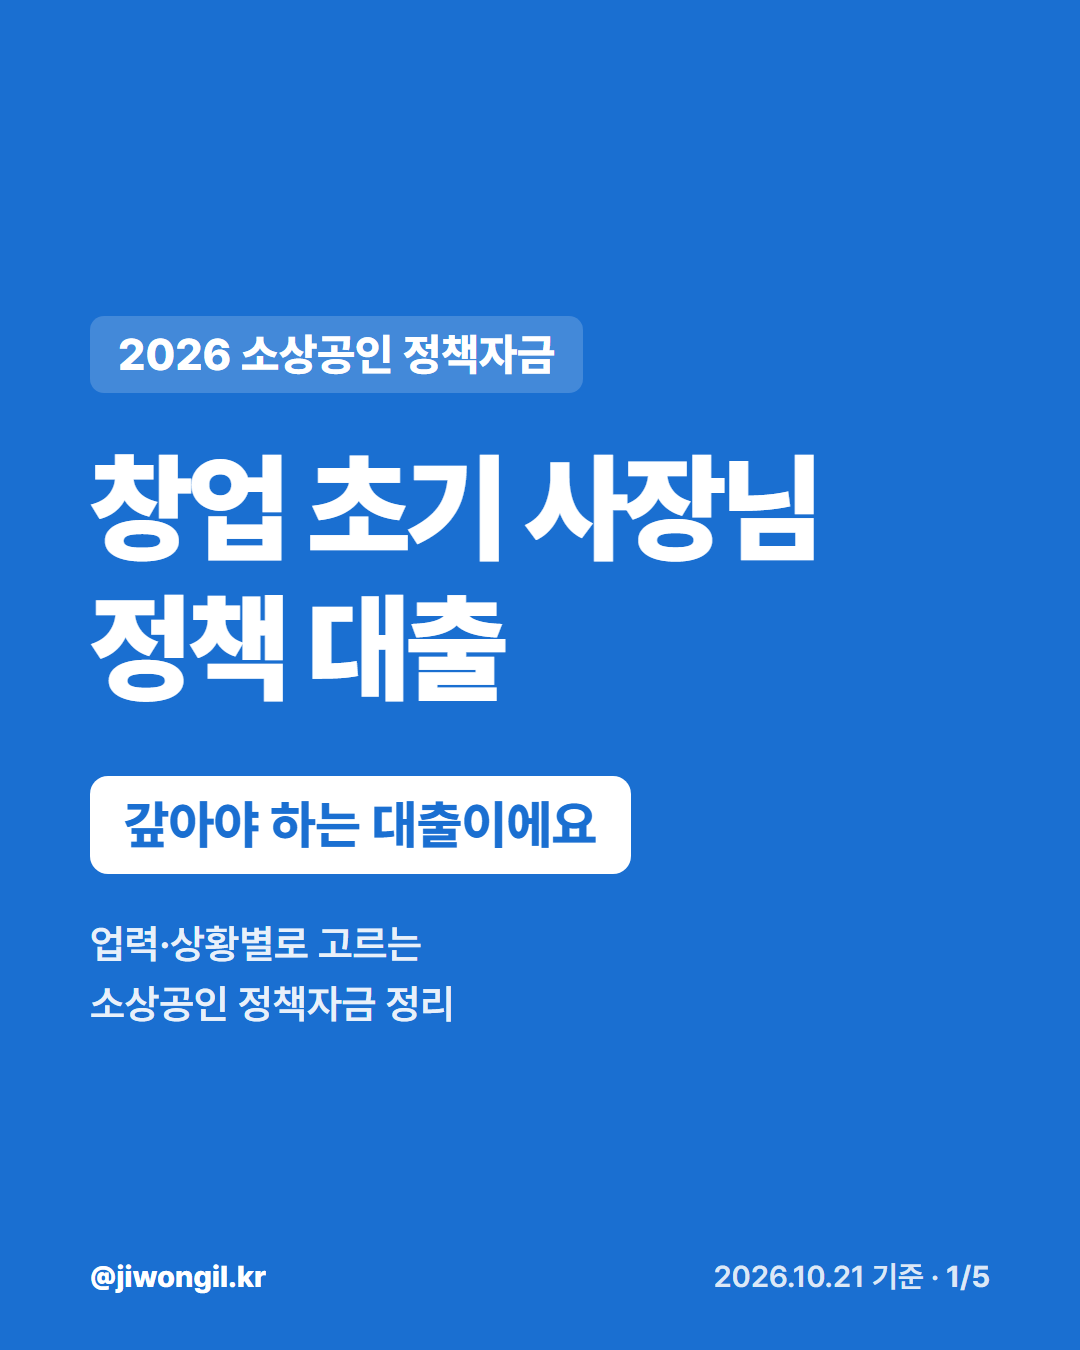
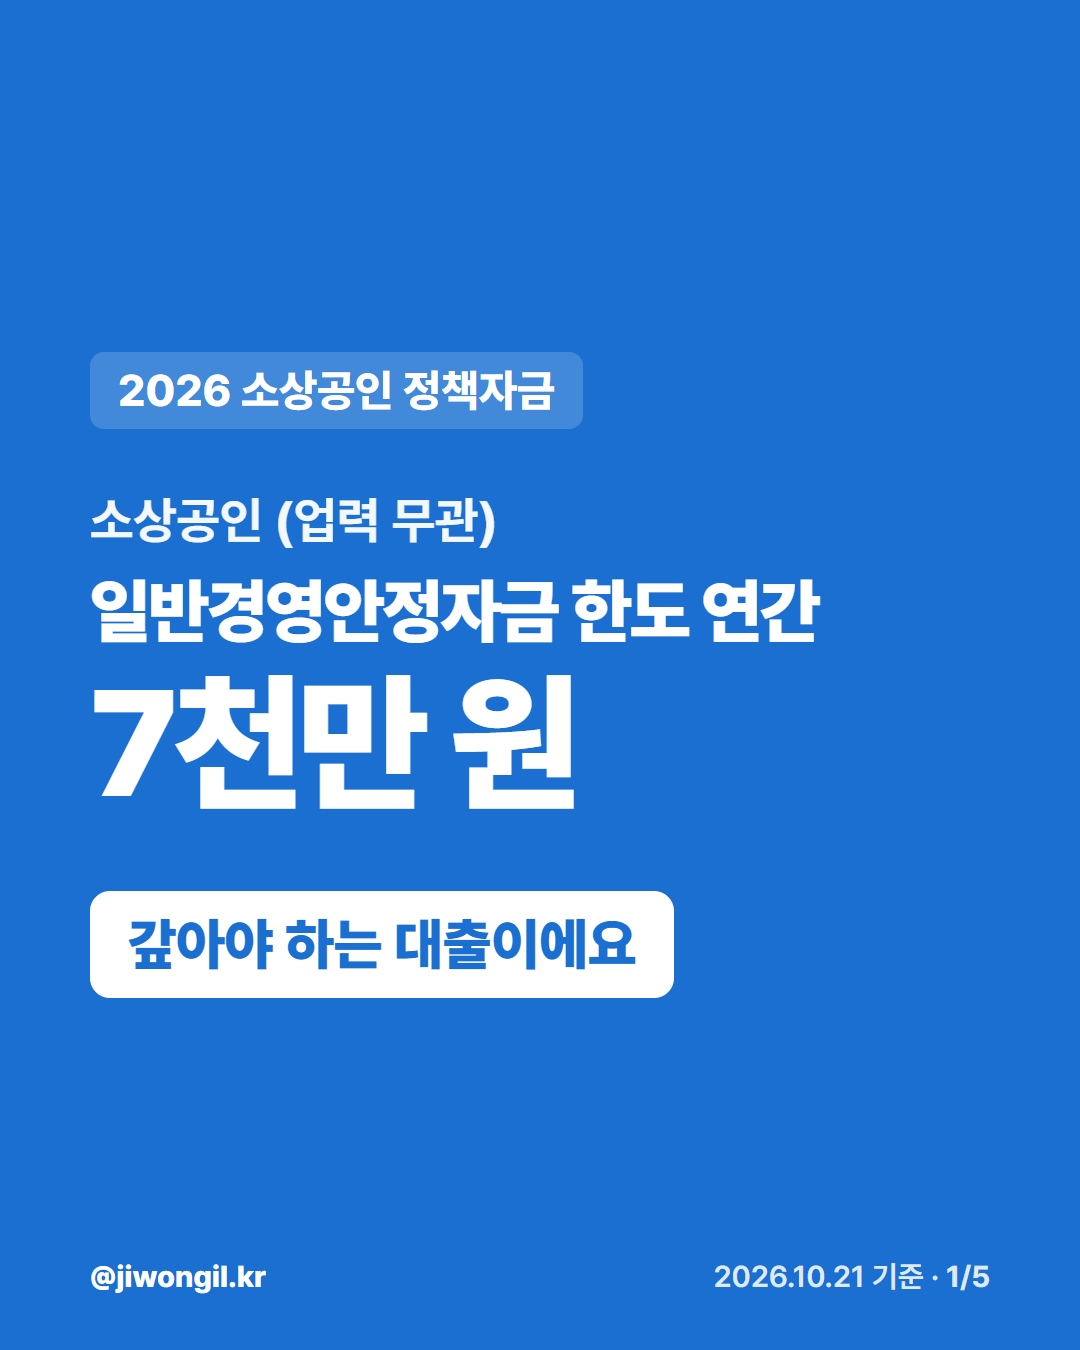
인스타 표지 A안(대상·큰 금액·배지) 추가, 대기열 13개 세트 표지 교체 (독립 팩트체크 12건 반영)

Changed region(s): [[0.0611, 0.2178, 0.7639, 0.7778]]

diff --git a/_tools/insta.html b/_tools/insta.html
@@ -8,6 +8,7 @@
   슬라이드 종류
     cover: { type:"cover", label, title(줄바꿈은 \n), badge, sub }
     rows : { type:"rows", step, title, rows:[[큰 글씨, 작은 글씨], ...], note }
+    hero : { type:"hero", label, who, pre, amt, badge }  ← 표지 A안(2026-10-22~): 대상 한 줄 + 큰 금액 + 마감(없으면 핵심 조건) 배지
     end  : { type:"end", title, text, source }
 -->
 <html lang="ko">
@@ -37,6 +38,16 @@
   .cover .foot { color: rgba(255,255,255,.85); }
   .cover .foot b { color:#fff; }
   .cover .page { color: rgba(255,255,255,.85); }
+
+  /* hero (표지 A안) */
+  .hero { background: var(--brand); color:#fff; display:flex; flex-direction:column; justify-content:center; padding:0 90px; }
+  .hero .label { align-self:flex-start; font-size:44px; font-weight:800; background:rgba(255,255,255,.18); padding:12px 28px; border-radius:14px; }
+  .hero .who { margin-top:56px; font-size:50px; font-weight:700; opacity:.95; line-height:1.4; }
+  .hero .pre { margin-top:14px; font-size:70px; font-weight:900; letter-spacing:-2px; line-height:1.2; }
+  .hero .amt { margin-top:6px; font-size:150px; font-weight:900; letter-spacing:-5px; line-height:1.12; }
+  .hero .amt.long { font-size:116px; letter-spacing:-4px; }
+  .hero .badge { margin-top:64px; align-self:flex-start; font-size:56px; font-weight:900; color:var(--brand); background:#fff; padding:20px 38px; border-radius:20px; }
+  .hero .foot { color: rgba(255,255,255,.85); } .hero .foot b { color:#fff; } .hero .page { color: rgba(255,255,255,.85); }
 
   /* rows */
   .step { font-size:40px; font-weight:800; color:var(--brand); }
@@ -185,8 +196,7 @@ const decks = {
   "youth-jeonse-loan-2026": {
     date: "2026.10.21 기준",
     slides: [
-      { type:"cover", label:"2026 청년 전세자금대출", title:"청년전용 버팀목\n연 2.2~3.3%", badge:"최대 1.5억 원",
-        sub:"만 19~34세 무주택 세대주를 위한\n주택도시기금 전세대출" },
+      { type:"hero", label:"2026 청년 전세자금대출", who:"만 19~34세 무주택 세대주", pre:"청년전용 버팀목 금리", amt:"연 2.2~3.3%", badge:"최대 1.5억 원" },
       { type:"rows", step:"01 · 누가", title:"누가 받을 수 있나요?",
         rows:[["만 19~34세 세대주", "예비 세대주도 가능"], ["부부합산 연소득 5천만 원 이하", "순자산 3.45억 원 이하 (2026년)"], ["무주택", "세대원 모두 집이 없어야 해요"]] },
       { type:"rows", step:"02 · 얼마", title:"얼마나 빌리나요?",
@@ -201,8 +211,7 @@ const decks = {
   "youth-wolse-loan-2026": {
     date: "2026.10.21 기준",
     slides: [
-      { type:"cover", label:"2026 청년전용 보증부월세대출", title:"월세 대출\n20만 원까지 연 0%", badge:"보증금 대출 연 1.3%",
-        sub:"월세 사는 청년의\n보증금과 월세를 함께 빌려줘요" },
+      { type:"hero", label:"2026 청년전용 보증부월세대출", who:"만 19~34세 단독세대주", pre:"매달 월세 20만 원까지", amt:"연 0%", badge:"보증금 대출 연 1.3%" },
       { type:"rows", step:"01 · 누가", title:"누가 받을 수 있나요?",
         rows:[["만 19~34세 단독세대주", "예비 세대주도 가능"], ["부부합산 연소득 5천만 원 이하", "순자산 3.45억 원 이하 (2026년)"], ["전용 60㎡ 이하 주택", "보증금 6,500만 원 · 월세 70만 원 이하"]] },
       { type:"rows", step:"02 · 얼마", title:"얼마나 빌리나요?",
@@ -218,8 +227,7 @@ const decks = {
   "youth-public-rental-2026": {
     date: "2026.10.21 기준",
     slides: [
-      { type:"cover", label:"2026 청년 공공임대", title:"시세보다 싸게\n사는 집", badge:"만 39세까지 신청",
-        sub:"매입임대·행복주택·전세임대\n임대료와 자격을 비교했어요" },
+      { type:"hero", label:"2026 청년 공공임대", who:"만 19~39세 무주택 청년 (소득·자산 기준)", pre:"매입임대·행복주택·전세임대", amt:"시세보다 싸게", badge:"만 39세까지 신청" },
       { type:"rows", step:"01 · 누가", title:"누가 신청할 수 있나요?",
         rows:[["만 19~39세", "무주택 청년 (매입임대·행복주택은 미혼)"], ["대학생 · 취업준비생", "졸업·중퇴 후 2년 이내 미취업자 포함"], ["순위별 소득 기준", "1순위 수급자·차상위 등"]] },
       { type:"rows", step:"02 · 얼마", title:"임대료는 얼마인가요?",
@@ -234,8 +242,7 @@ const decks = {
   "youth-dream-account-2026": {
     date: "2026.10.21 기준",
     slides: [
-      { type:"cover", label:"2026 청년 주택드림 청약통장", title:"최고 연 4.5%\n청년 청약통장", badge:"조건 맞으면 이자 500만 원 비과세",
-        sub:"만 19~34세 무주택 청년이\n내 집 마련을 준비하는 통장" },
+      { type:"hero", label:"2026 청년 주택드림 청약통장", who:"만 19~34세 · 연소득 5천만 원 이하 무주택", pre:"청년 청약통장 최고", amt:"연 4.5%", badge:"조건 맞으면 이자 500만 원 비과세" },
       { type:"rows", step:"01 · 누가", title:"누가 가입할 수 있나요?",
         rows:[["만 19~34세", "병역 기간 최대 6년 제외"], ["연소득 5천만 원 이하", "신고된 소득이 있어야 해요"], ["무주택자", "집이 없어야 해요"]] },
       { type:"rows", step:"02 · 금리", title:"금리는 얼마인가요?",
@@ -250,8 +257,7 @@ const decks = {
   "birth-support-2026": {
     date: "2026.10.21 기준",
     slides: [
-      { type:"cover", label:"2026 출산지원금", title:"아이가 태어나면\n받는 정부 지원금", badge:"부모급여·아동수당 60일 안에 신청",
-        sub:"부모 소득과 상관없이\n조건을 갖추면 누구나 받아요" },
+      { type:"hero", label:"2026 출산지원금", who:"아이가 태어난 가정 (부모 소득 무관)", pre:"첫만남이용권 (국민행복카드)", amt:"200~300만 원", badge:"부모급여·아동수당 60일 안 신청 권장" },
       { type:"rows", step:"01 · 임신·출생", title:"임신하고 낳으면",
         rows:[["진료비 바우처 100만 원", "단태아 기준 · 국민행복카드 포인트"], ["첫만남이용권 200만 원", "첫째 · 둘째 이상은 300만 원"]] },
       { type:"rows", step:"02 · 매달", title:"매달 받는 돈",
@@ -267,8 +273,7 @@ const decks = {
   "leave-pay-2026": {
     date: "2026.10.21 기준",
     slides: [
-      { type:"cover", label:"2026 출산휴가·육아휴직 급여", title:"직장인 부모가\n받는 고용보험 급여", badge:"육아휴직 첫 3개월 월 최대 250만 원 (일반)",
-        sub:"출산휴가, 배우자 출산휴가,\n육아휴직 급여를 정리했어요" },
+      { type:"hero", label:"2026 출산휴가·육아휴직 급여", who:"직장인 부모 (고용보험)", pre:"육아휴직 첫 3개월 (일반)", amt:"월 최대 250만 원", badge:"출산휴가 30일 기준 최대 220만 원" },
       { type:"rows", step:"01 · 출산휴가", title:"출산전후휴가 급여",
         rows:[["30일 기준 최대 220만 원", "통상임금 기준"], ["90일 · 다태아 120일", "대기업은 마지막 30일만 정부 지급"]] },
       { type:"rows", step:"02 · 배우자", title:"배우자 출산휴가 급여",
@@ -283,8 +288,7 @@ const decks = {
   "reduced-hours-childcare-2026": {
     date: "2026.10.21 기준",
     slides: [
-      { type:"cover", label:"2026 육아기 근로시간 단축", title:"근무시간 줄이고\n급여도 받기", badge:"자녀 만 12세까지",
-        sub:"주 15~35시간으로 줄이고\n줄어든 월급 일부를 보전받아요" },
+      { type:"hero", label:"2026 육아기 근로시간 단축", who:"만 12세(초6) 이하 자녀를 둔 근로자", pre:"근무시간을 줄이고", amt:"주 15~35시간", badge:"고용보험 급여 지원 (조건 있음)" },
       { type:"rows", step:"01 · 누가", title:"누가 쓸 수 있나요?",
         rows:[["만 12세 이하 자녀", "또는 초등학교 6학년 이하"], ["남녀 근로자 모두", "엄마·아빠가 각각 사용 가능"], ["회사는 원칙적으로 허용", "거부하면 500만 원 이하 과태료"]] },
       { type:"rows", step:"02 · 기간", title:"얼마나 쓸 수 있나요?",
@@ -299,8 +303,7 @@ const decks = {
   "child-care-service-2026": {
     date: "2026.10.21 기준",
     slides: [
-      { type:"cover", label:"2026 아이돌봄서비스", title:"돌보미가\n집으로 와요", badge:"소득별 정부지원 최대 85%",
-        sub:"만 12세 이하 아이를 돌보는\n정부 돌봄 서비스" },
+      { type:"hero", label:"2026 아이돌봄서비스", who:"만 12세 이하 · 양육공백 가정", pre:"소득에 따라 이용요금 정부지원", amt:"15~85%", badge:"중위소득 250% 이하 · 기본형 기준" },
       { type:"rows", step:"01 · 누가", title:"누가 정부지원을 받나요?",
         rows:[["양육공백 가정", "맞벌이, 한부모, 장애부모, 다자녀 등"], ["중위소득 250% 이하", "2026년부터 200% → 250%로 확대"]],
         note:"부모 한 명이 집에서 돌볼 수 있으면 지원 제외" },
@@ -316,8 +319,7 @@ const decks = {
   "tomorrow-learning-card-2026": {
     date: "2026.10.21 기준",
     slides: [
-      { type:"cover", label:"2026 국민내일배움카드", title:"직업훈련비\n5년간 최대 500만 원", badge:"1년 내내 신청 가능",
-        sub:"일하든 쉬든 직업훈련이 필요하면\n신청할 수 있어요 (일부 제외)" },
+      { type:"hero", label:"2026 국민내일배움카드", who:"직업훈련이 필요한 국민 (일부 제외)", pre:"훈련비 5년간 (본인부담 있음)", amt:"300~500만 원", badge:"1년 내내 신청 가능" },
       { type:"rows", step:"01 · 얼마", title:"얼마를 지원하나요?",
         rows:[["기본 300만 원", "카드 발급일부터 5년"], ["+200만 원 (1회)", "300만 원 소진 후 · 기간제·일용근로자, 수급자 등"], ["본인부담 0~55%", "과정과 개인 상황에 따라"]] },
       { type:"rows", step:"02 · 제외", title:"받을 수 없는 사람",
@@ -333,8 +335,7 @@ const decks = {
   "national-employment-support-2026": {
     date: "2026.10.21 기준",
     slides: [
-      { type:"cover", label:"2026 국민취업지원제도", title:"구직촉진수당\n월 60만 원 × 6개월", badge:"1년 내내 신청 가능",
-        sub:"일자리를 찾는 사람에게\n상담·훈련·수당을 지원해요" },
+      { type:"hero", label:"2026 국민취업지원제도", who:"만 15~69세 저소득 구직자 (1유형)", pre:"구직촉진수당", amt:"월 60만 원 × 6개월", badge:"1년 내내 신청 가능" },
       { type:"rows", step:"01 · 1유형", title:"1유형 (저소득 구직자)",
         rows:[["만 15~69세", "청년은 병역 기간 더해 최대 37세"], ["중위소득 60% 이하", "가구·본인 소득 각각 · 청년은 가구 120% 이하도 선발 가능"], ["재산 4억 원 이하", "청년은 5억 원 이하"]] },
       { type:"rows", step:"02 · 수당", title:"무엇을 받나요?",
@@ -350,8 +351,7 @@ const decks = {
   "small-business-policy-loan-2026": {
     date: "2026.10.21 기준",
     slides: [
-      { type:"cover", label:"2026 소상공인 정책자금", title:"창업 초기 사장님\n정책 대출", badge:"갚아야 하는 대출이에요",
-        sub:"업력·상황별로 고르는\n소상공인 정책자금 정리" },
+      { type:"hero", label:"2026 소상공인 정책자금", who:"소상공인 (업력 무관)", pre:"일반경영안정자금 한도 연간", amt:"7천만 원", badge:"갚아야 하는 대출이에요" },
       { type:"rows", step:"01 · 자금", title:"창업 초기에 볼 자금",
         rows:[["일반경영안정자금", "연간 7천만 원 · 기준금리 +0.6%p"], ["청년고용연계자금", "업력 3년 미만 청년 등 · 7천만 원"], ["일시적 경영애로 자금", "매출 15% 이상 감소 등 · 7천만 원"]] },
       { type:"rows", step:"02 · 한도", title:"한도와 금리",
@@ -366,8 +366,7 @@ const decks = {
   "startup-tax-reduction-2026": {
     date: "2026.10.21 기준",
     slides: [
-      { type:"cover", label:"창업중소기업 세액감면", title:"창업 후 5년\n소득세·법인세 감면", badge:"청년 최대 100%",
-        sub:"2026년부터 지역별 감면율이\n더 잘게 나뉘었어요" },
+      { type:"hero", label:"창업중소기업 세액감면", who:"소득이 생긴 해부터 5년간", pre:"지역·나이에 따라 감면율", amt:"25~100%", badge:"과밀억제권역 일반 창업은 감면 없음" },
       { type:"rows", step:"01 · 기간", title:"얼마나 감면되나요?",
         rows:[["5년", "소득이 처음 생긴 해부터"], ["감면율 25~100%", "청년 여부와 창업 지역에 따라"], ["연 5억 원 한도", "과세연도마다 감면세액 기준"]] },
       { type:"rows", step:"02 · 감면율", title:"이런 경우 감면율이 달라요",
@@ -383,8 +382,7 @@ const decks = {
   "startup-support-2026": {
     date: "2026.10.21 기준",
     slides: [
-      { type:"cover", label:"2026 창업지원사업", title:"창업지원 예산\n3조 4,645억 원", badge:"508개 사업 한눈에",
-        sub:"정부·지자체 창업지원사업\n어디서 어떻게 찾을까요?" },
+      { type:"hero", label:"2026 창업지원사업", who:"정부·지자체 창업지원사업", pre:"2026년 전체 예산", amt:"3조 4,645억 원", badge:"508개 사업 한눈에" },
       { type:"rows", step:"01 · 규모", title:"얼마나 많나요?",
         rows:[["3조 4,645억 원", "2026년 전체 예산"], ["508개 사업", "중앙부처 88개 · 지자체 420개"], ["111개 기관", "중앙부처 15개 · 지자체 96개"]] },
       { type:"rows", step:"02 · 주의", title:"꼭 알아두세요",
@@ -407,6 +405,10 @@ let html = "";
 if (s.type === "cover") {
   html = `<div class="slide cover"><div class="label">${esc(s.label)}</div><h1>${esc(s.title)}</h1>
           <div class="badge">${esc(s.badge)}</div><div class="sub" style="white-space:pre-line">${esc(s.sub)}</div>${foot}</div>`;
+} else if (s.type === "hero") {
+  html = `<div class="slide hero"><div class="label">${esc(s.label)}</div><div class="who">${esc(s.who)}</div>
+          <div class="pre">${esc(s.pre)}</div><div class="amt${[...s.amt].length > 9 ? " long" : ""}">${esc(s.amt)}</div>
+          <div class="badge">${esc(s.badge)}</div>${foot}</div>`;
 } else if (s.type === "rows") {
   html = `<div class="slide rows"><div class="top"></div><div class="step">${esc(s.step)}</div><h2>${esc(s.title)}</h2>
           <div class="list">${s.rows.map(([b, m]) => `<div class="row"><div class="big">${esc(b)}</div>${m ? `<div class="small">${esc(m)}</div>` : ""}</div>`).join("")}</div>
